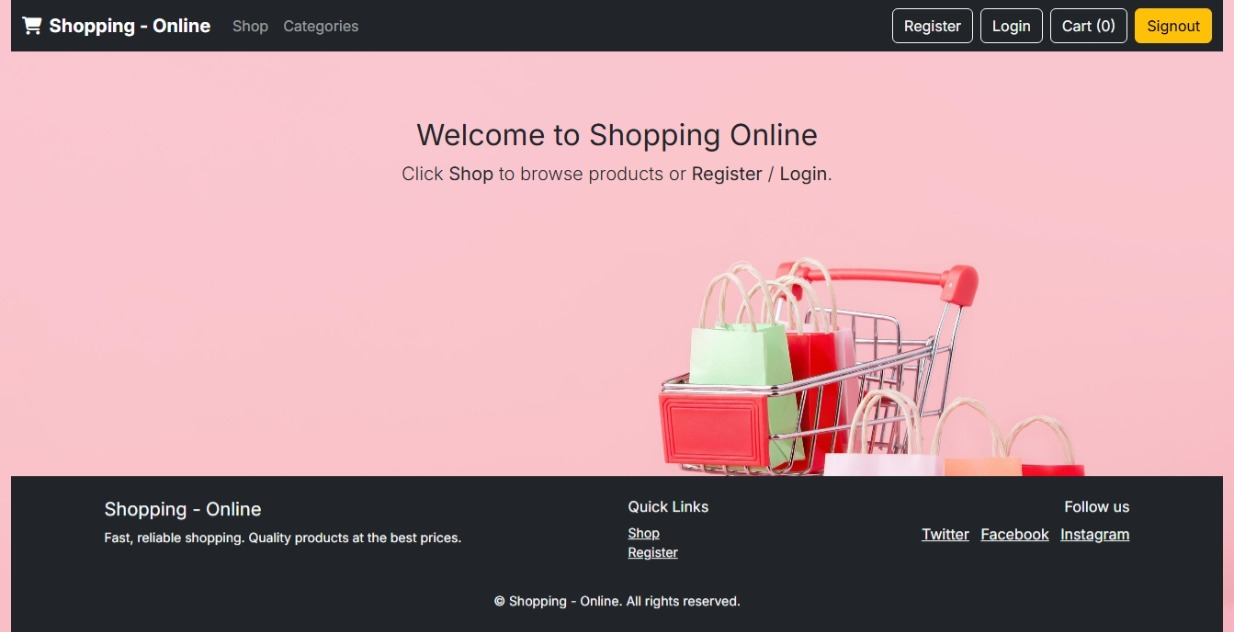
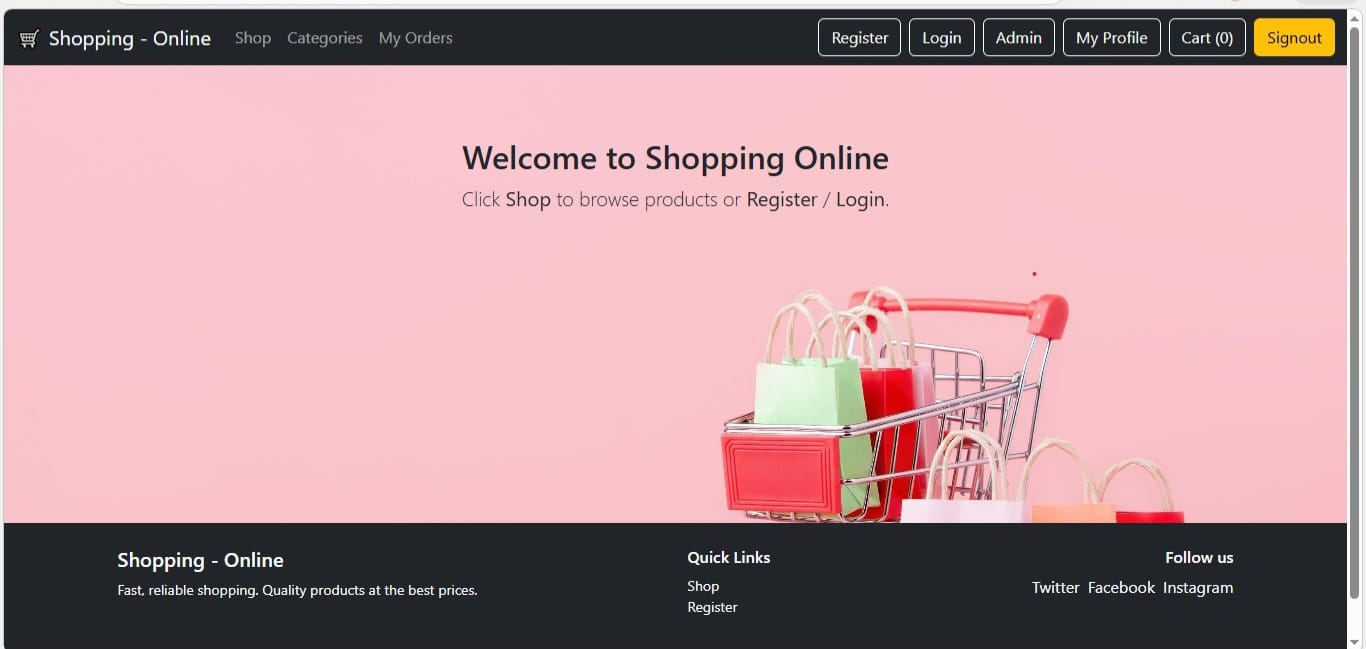
update portfolio

diff --git a/src/components/projects/shoppingonline.jsx b/src/components/projects/shoppingonline.jsx
@@ -5,7 +5,7 @@ const ShoppingOnline = () => {
     <div className="skills_content">
         <h3 className="skills_title">ShoppingOnline</h3>
         <div className='docDiv'><img src="/ishop.jpeg" alt="ShoppingOnline" className='docImage' /></div>
-        <div style={{margin:"5px"}}><a href="https://shopping-frontend-five.vercel.app/" target='_blank' className='demolink'>See Demo <span className='bi bi-arrow-right'></span></a></div>
+        <div style={{margin:"5px"}}><a href="https://shopping-frontend-lac.vercel.app/" target='_blank' className='demolink'>See Demo <span className='bi bi-arrow-right'></span></a></div>
     </div>
   )
 }

diff --git a/src/components/skills/Developertool.jsx b/src/components/skills/Developertool.jsx
@@ -40,7 +40,7 @@ const Developertool = () => {
                 <div className='skills_data'>
                     <i className='bx bx-badge-check'></i>
                     <div>
-                        <h3 className='skills_name'>Chrome DevTools</h3>
+                        <h3 className='skills_name'>Edge DevTools</h3>
                     </div>
                 </div>
 
